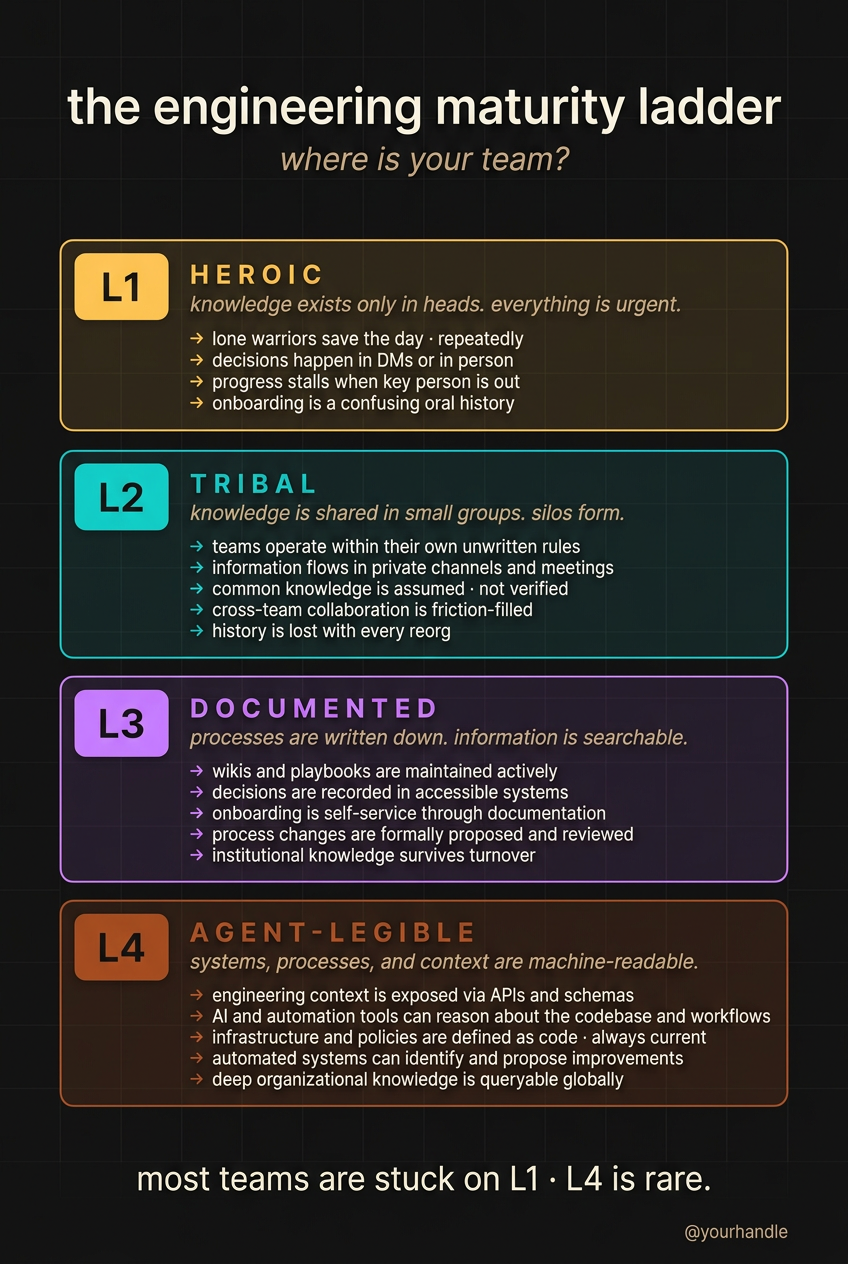
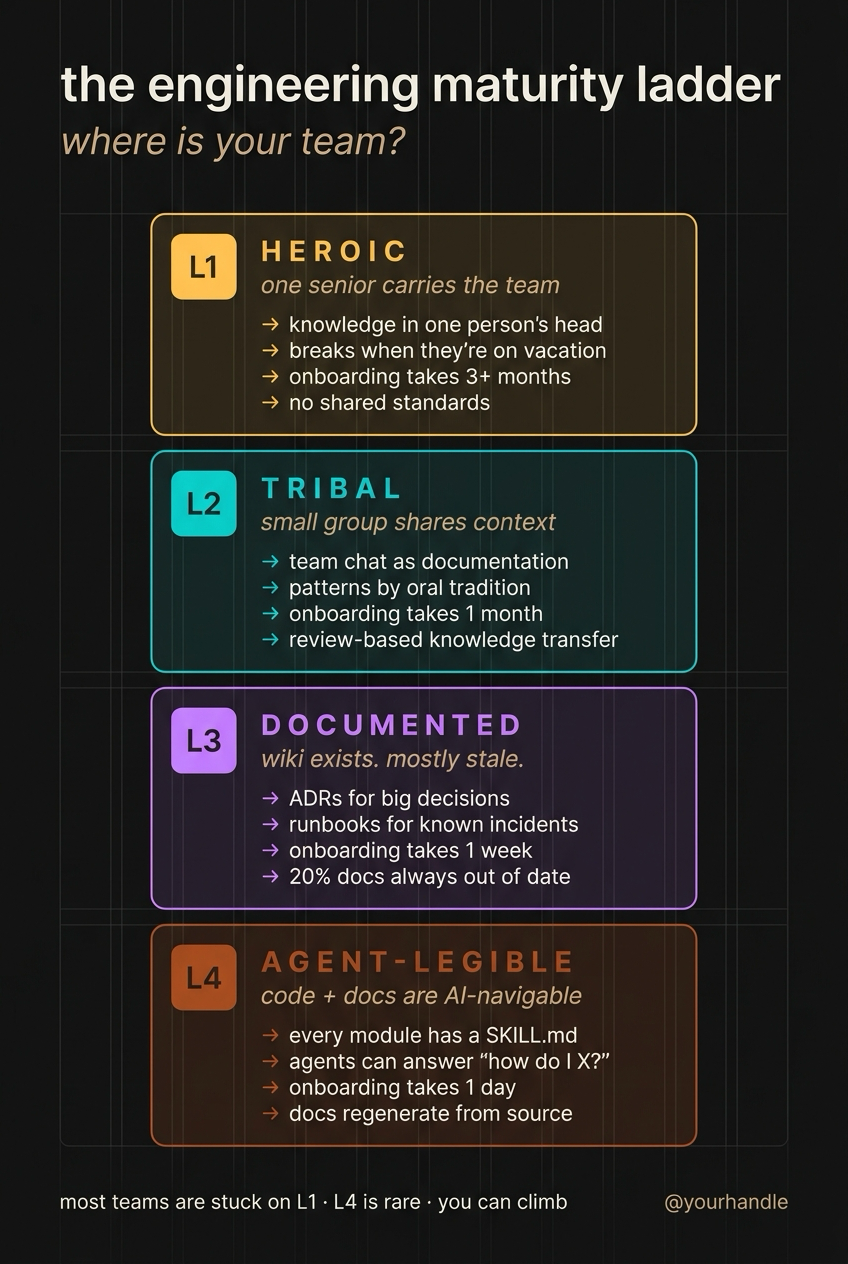
terminal-poster: render all cluster examples, harden prompt templates
- Render cluster-c1-hero, cluster-d2-thought-piece, cluster-e-brandbook
  (new) and regenerate cluster-b-maturity + cluster-d-playbook, whose
  old artifacts came from the null-corrupted prompts (Nano Banana Pro
  via OpenRouter, visually verified)
- Template hardening driven by render QA: bracketed format
  illustrations ([LABEL] ◆ [SUBJECT]) removed from D1/D2 prompts,
  "prose:" field marker dropped, and the [MASCOT] token taken out of
  the C-cluster tagline string (models transcribe quoted strings
  verbatim) — mascot position now described separately
- Pin model constants to stable OpenRouter slugs verified against the
  live catalog (gemini-2.5-flash-image-preview no longer exists)
- Update worked-examples.md with assessed post-fix scores (B/C1/D1/D2
  ~90-95%, E ~75% with known small-text limits) and the one-contiguous-
  quote prompting lesson; mark example specs as rendered

diff --git a/skills/terminal-poster/references/worked-examples.md b/skills/terminal-poster/references/worked-examples.md
@@ -63,19 +63,19 @@ v1 = 95.6%  →  v2 = 94.8%  →  v3 = 80%  →  v4 = 90.7%
 
 Real measured first-generation scores for the specs in `scripts/example-specs/`. The rendered PNGs live in `assets/examples/`.
 
-> ⚠️ **Pre-fix scores were suppressed by the Cluster-B/D "null-corruption" bug** in `make-poster.sh` (the CLI read spec keys that the example YAML didn't provide, and mikefarah yq returned the literal string `"null"` — the model then rendered "HEROIC null / one-liner: null" in the prompt). That bug is now fixed; scores below should be **re-measured after regeneration** and this table updated.
+> ⚠️ **Pre-fix scores were suppressed by the Cluster-B/D "null-corruption" bug** in `make-poster.sh` (the CLI read spec keys that the example YAML didn't provide, and mikefarah yq returned the literal string `"null"` — the model then rendered "HEROIC null / one-liner: null" in the prompt). The bug was fixed and all affected artifacts regenerated on 2026-07-07 (Nano Banana Pro via OpenRouter); scores below reflect the regenerated renders.
 
-| Cluster | Measured first-gen score (as-shipped) | Notes |
+| Cluster | Assessed score (shipped render) | Notes |
 |---|---|---|
-| **A** ASCII Terminal | 🟡 **68%** (`assets/examples/cluster-a-stack.png`) | On-spec structure; model bled in yellow accents. A second pass would correct it. |
-| **B** Color-Coded | 🟡 **78%** (`assets/examples/cluster-b-maturity.png`) | Score depressed by the null-corruption bug and by palette drift (model substituted its own). Re-measure after fix. |
-| **C1** Painterly Hero | ⚪ not yet rendered | New spec `cluster-c1-hero.yaml` added. |
+| **A** ASCII Terminal | 🟡 **68%** (`assets/examples/cluster-a-stack.png`) | Pre-fix render, kept as-is (Cluster A was unaffected by the bug). On-spec structure; model bled in yellow accents. |
+| **B** Color-Coded | 🟢 **~95%** (`assets/examples/cluster-b-maturity.png`) | Regenerated post-fix: labels, one-liners, and bullets all correct; per-level palette held. First generation. |
+| **C1** Painterly Hero | 🟢 **~90%** (`assets/examples/cluster-c1-hero.png`) | Hero + 6 cards clean. The tagline bar took 4 iterations — the model kept transcribing template tokens/instructions until the `[MASCOT]` token was removed from the tagline string. Template now hardened; still budget 2-4 rolls for the bar. |
 | **C2** Pixel Hero | 🟢 **92%** (`assets/examples/cluster-c2-walkbot.jpg`) | Held palette, held 3×2 grid, one typo in card 6 ("en-ounters"). |
-| **D1** Step Pipeline | ⚪ not yet rendered | Spec `cluster-d-playbook.yaml` re-keyed to match CLI. |
-| **D2** Terminal-Window | ⚪ not yet rendered | New spec `cluster-d2-thought-piece.yaml` added. |
-| **E** Editorial | ⚪ not yet rendered | New spec `cluster-e-brandbook.yaml` added. |
+| **D1** Step Pipeline | 🟢 **~95%** (`assets/examples/cluster-d-playbook.png`) | First generation with the re-keyed spec: all 5 steps, icons, and body copy correct. |
+| **D2** Terminal-Window | 🟢 **~90%** (`assets/examples/cluster-d2-thought-piece.png`) | Clean after 3 iterations: bracketed placeholder illustration and a `prose:` field marker in the prompt builder both leaked into early renders (both since removed from the template). |
+| **E** Editorial | 🟡 **~75%** (`assets/examples/cluster-e-brandbook.png`) | Layout, typography, and palette panels strong; micro-copy at small sizes is gibberish and one page index duplicated ("07" twice) — known model limits for dense editorial spreads. |
 
-**Interpretation:** Cluster A and C2 are demonstrated-reliable at ≥68-92% on first generation. B/C1/D1/D2/E first-gen scores are unverified after the null-corruption fix. Do not trust the earlier "all clusters ≥90%" claim until each rendered PNG is scored again.
+**Interpretation:** With the fixed CLI, B/C1/C2/D1/D2 land at ~90-95%. Cluster E's dense small text remains the hard case — treat its body copy as decorative. Text-heavy zones (taglines, panel headers) are the main iteration driver: keep exact strings in ONE contiguous quote in prompts, and never put placeholder tokens inside quoted text.
 
 # Why the CLI matters
 